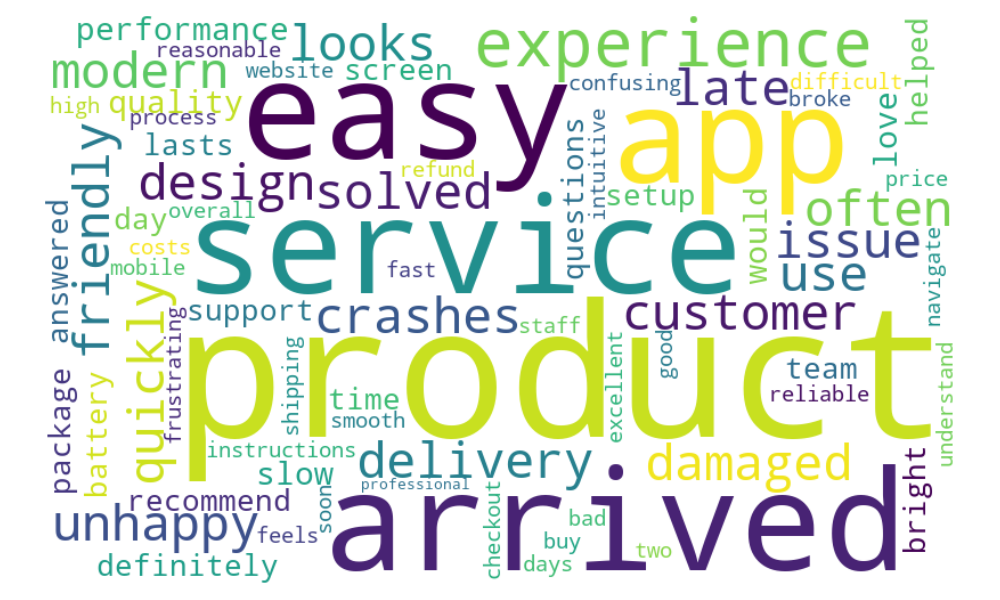
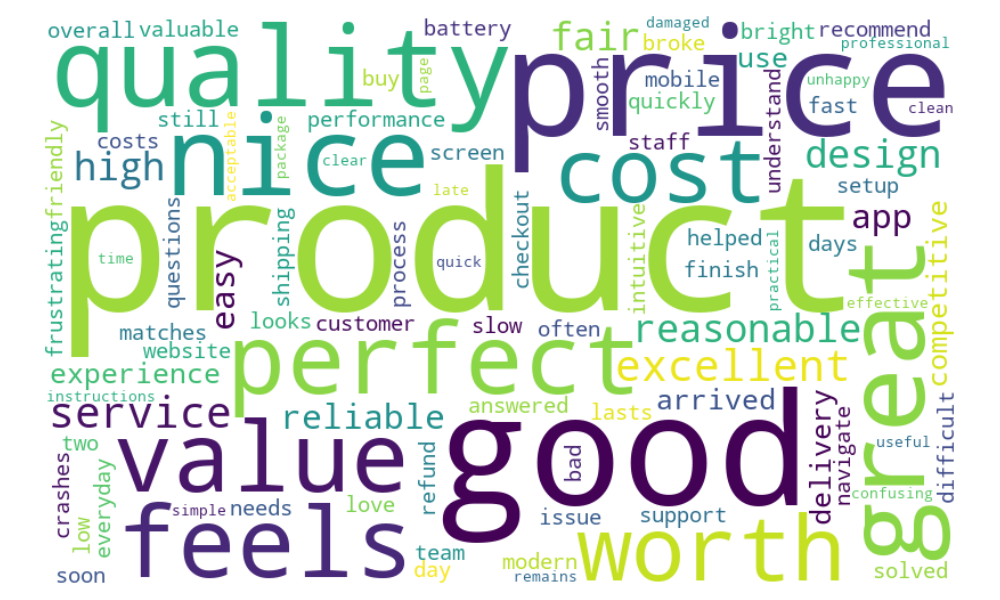
homework

diff --git a/HpAI.py b/HpAI.py
@@ -1,0 +1,179 @@
+import os
+import re
+import warnings
+
+import matplotlib
+matplotlib.use("Agg")
+import matplotlib.pyplot as plt
+import numpy as np
+import pandas as pd
+from gensim.models import Word2Vec
+from nltk import download
+from nltk.corpus import stopwords
+from nltk.tokenize import word_tokenize
+from sklearn.cluster import KMeans
+from sklearn.decomposition import PCA
+
+warnings.filterwarnings("ignore")
+
+download("punkt", quiet=True)
+download("stopwords", quiet=True)
+
+DATA_PATH = os.path.join(os.path.dirname(__file__), "feedback.csv")
+MODEL_PATH = os.path.join(os.path.dirname(__file__), "word2vec_model.model")
+PLOT_PATH = os.path.join(os.path.dirname(__file__), "semantic_clusters.png")
+
+REVIEWS = [
+    "The product is very easy to use and the design looks modern.",
+    "The product is good and the quality is great.",
+    "This is a good product with a nice design and perfect finish.",
+    "The product feels great, reliable, and easy to recommend.",
+    "The price is reasonable and the value is worth it.",
+    "The price is fair, the cost is good, and the product feels valuable.",
+    "The product is nice and the price matches the quality.",
+    "The price is low and the product is perfect for everyday use.",
+    "This product is good and the price feels worth it.",
+    "The product is great and the quality is excellent.",
+    "The price is good and the service is nice.",
+    "The value is great, and the product is perfect for my needs.",
+    "The cost is high but the product is still worth the value.",
+    "I love the product because it is good, nice, and great.",
+    "Customer service was friendly and solved my issue quickly.",
+    "Support team helped me with the setup and answered all questions.",
+    "The battery lasts all day and the screen is very bright.",
+    "The app crashes often and the performance is very slow.",
+    "The website is difficult to navigate and the checkout is frustrating.",
+    "Overall experience was excellent, and I will buy again soon.",
+    "The mobile app is intuitive, fast, and easy to understand.",
+    "I had a bad experience because the product broke after two days.",
+    "The product is good but the shipping costs are too high.",
+    "The refund process was smooth and the staff was professional.",
+    "The product is great, the price is fair, and the quality is nice.",
+    "The product feels good and the value is perfect.",
+    "The delivery was quick, the price was reasonable, and the product is good.",
+    "The quality is great and the service is cost effective.",
+    "This product is nice, good, and worth the price.",
+    "The product is perfect and the price is acceptable.",
+    "The app is useful and the price is competitive.",
+    "This is good value because the product is reliable and practical.",
+    "The cost is fair and the quality feels worth it.",
+    "The product is excellent and the price is not too high.",
+    "The product is nice, the cost is good, and the quality is excellent.",
+    "The product is great, the value is high, and the design is nice.",
+    "This is a good product and the price is competitive.",
+    "The product is perfect, simple, and very good.",
+    "The page is clean, the product is nice, and the cost is fair.",
+    "The price is good and the service is great.",
+    "The product quality is good and the price remains reasonable.",
+    "The value is clear and the product feels good.",
+    "The price is worth it because the quality is excellent.",
+    "The design is perfect and the product is very good.",
+    "This service feels reliable and the price is reasonable.",
+    "The package arrived on time but the instructions were confusing.",
+    "I am unhappy with the delivery because it arrived late and damaged.",
+]
+
+
+def ensure_data():
+    pd.DataFrame({"review": REVIEWS}).to_csv(DATA_PATH, index=False)
+    return pd.read_csv(DATA_PATH)
+
+
+def clean_text(text):
+    text = str(text).lower()
+    text = re.sub(r"[^a-z\s]", " ", text)
+    text = re.sub(r"\s+", " ", text).strip()
+    return text
+
+
+def prepare_sentences(data):
+    stop_words = set(stopwords.words("english"))
+    sentences = []
+    for review in data["review"].fillna(""):
+        tokens = word_tokenize(clean_text(review))
+        tokens = [token for token in tokens if token.isalpha() and token not in stop_words and len(token) > 1]
+        if tokens:
+            sentences.append(tokens)
+    return sentences
+
+
+def build_model(sentences):
+    model = Word2Vec(
+        sentences=sentences,
+        vector_size=100,
+        window=5,
+        min_count=2,
+        sg=1,
+        seed=42,
+        workers=1,
+    )
+    model.save(str(MODEL_PATH))
+    return model
+
+
+def print_similar_words(model, word):
+    try:
+        similar = model.wv.most_similar(word, topn=10)
+    except KeyError:
+        print(f"Word '{word}' is not in the vocabulary.")
+        return
+    print(f"\nTop 10 words for '{word}':")
+    for neighbor, similarity in similar:
+        print(f"{neighbor}: {similarity:.4f}")
+
+
+def cluster_words(model):
+    words = model.wv.index_to_key
+    vectors = np.array([model.wv[word] for word in words])
+    n_clusters = min(10, len(words))
+    if n_clusters < 2:
+        return words, vectors, np.zeros(len(words), dtype=int)
+    kmeans = KMeans(n_clusters=n_clusters, random_state=42, n_init=10)
+    labels = kmeans.fit_predict(vectors)
+    return words, vectors, labels
+
+
+def print_cluster_summary(words, labels):
+    clusters = {}
+    for word, label in zip(words, labels):
+        clusters.setdefault(label, []).append(word)
+    print("\nClusters:")
+    for label in sorted(clusters):
+        items = clusters[label][:10]
+        print(f"Cluster {label}: {', '.join(items)}")
+
+
+def plot_clusters(words, vectors, labels):
+    reducer = PCA(n_components=2, random_state=42)
+    reduced = reducer.fit_transform(vectors)
+    fig, ax = plt.subplots(figsize=(14, 8))
+    for label in sorted(set(labels)):
+        idx = np.where(labels == label)[0]
+        ax.scatter(reduced[idx, 0], reduced[idx, 1], s=40, label=f"Cluster {label}")
+        for i in idx:
+            ax.text(reduced[i, 0], reduced[i, 1], words[i], fontsize=8)
+    ax.set_title("Semantic clusters of words")
+    ax.set_xlabel("PCA 1")
+    ax.set_ylabel("PCA 2")
+    ax.legend(loc="best")
+    fig.tight_layout()
+    fig.savefig(PLOT_PATH)
+    plt.close(fig)
+
+
+def main():
+    data = ensure_data()
+    sentences = prepare_sentences(data)
+    model = build_model(sentences)
+    print("\nPrepared sentences:", len(sentences))
+    print_similar_words(model, "good")
+    print_similar_words(model, "price")
+    words, vectors, labels = cluster_words(model)
+    print_cluster_summary(words, labels)
+    plot_clusters(words, vectors, labels)
+    print(f"\nSaved model: {MODEL_PATH}")
+    print(f"Saved cluster plot: {PLOT_PATH}")
+
+
+if __name__ == "__main__":
+    main()
